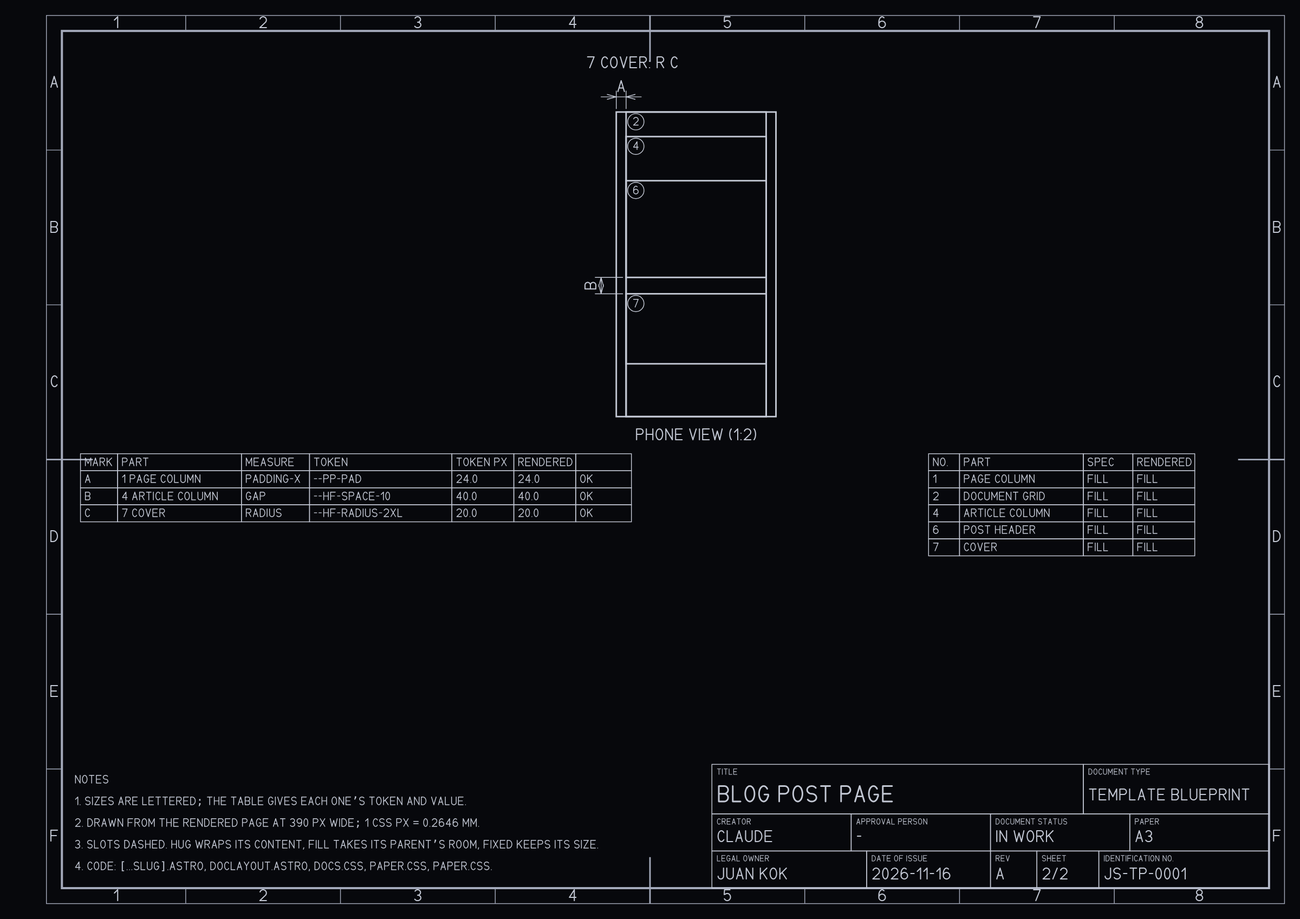
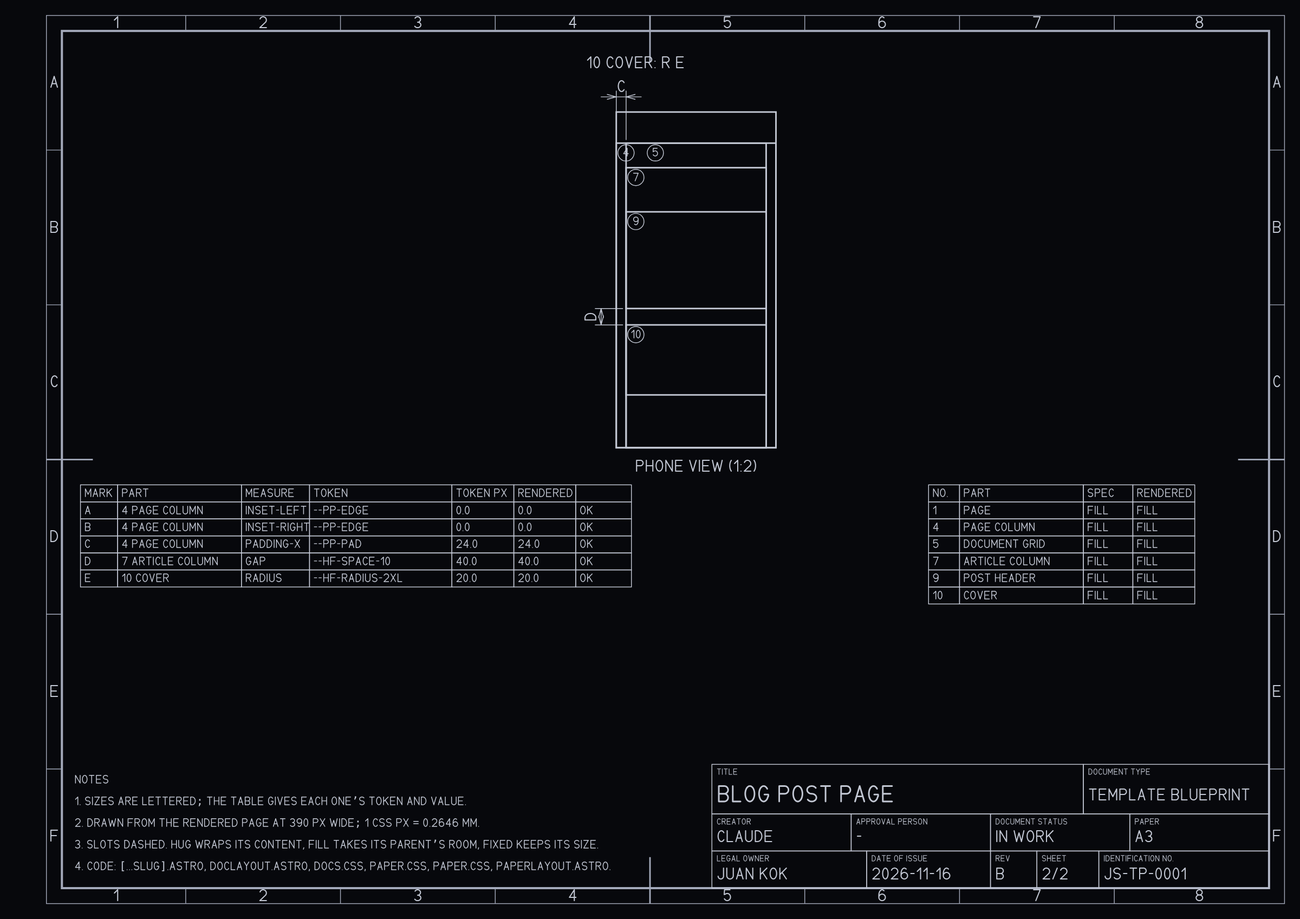
feat: page edges on the blog post and learn article blueprints
Juan asked for the dimension from the page edge to the punched strip and margin line, and from the
right edge to the contents column. Both blueprints now take the whole notepad page as their root:
the punched strip and the margin line are parts (measured as pseudo-elements, a new part field), and
two new measures, inset-left and inset-right, dimension each from the page edge. The strip's left
was a calc in its rule and is now the token --pp-strip-x. Revision B; sheets stored; the index
regenerated. The selftest fixtures point at the posts pane by its new index.

Claude-Session: https://claude.ai/code/session_01EUrBbh3nubsorYf6oJpc8D

diff --git a/astro/src/blueprints/blog-post.ts b/astro/src/blueprints/blog-post.ts
@@ -1,34 +1,42 @@
 import { onPage, type Blueprint } from './types';
 
-/** The blog post page: the paper page column holding the document grid (the pane of other posts,
- *  the article, On this page), and in the article the header, the cover and the body. Below
- *  1180 px the contents column goes; below 900 px the pane folds into a button. */
+/** The blog post page: the notepad (punched strip and margin line, then the page column clear of
+ *  them) holding the document grid (the pane of other posts, the article, On this page), and in the
+ *  article the header and the cover. Below 1180 px the contents column goes; below 900 px the pane
+ *  folds into a button and the notepad furniture is not drawn. */
 export const BLOG_POST: Blueprint = {
   id: 'blog-post',
   kind: 'template',
   title: 'Blog post page',
   summary: 'A post in the docs layout: other posts on the left, the article, its contents on the right.',
-  source: ['src/pages/blog/[...slug].astro', 'src/components/docs/DocLayout.astro', 'src/components/docs/docs.css', 'src/styles/paper.css', 'src/styles/tokens/paper.css'], // prettier-ignore
-  views: onPage('/blog/timing-closure/', 'main.post'),
+  source: ['src/pages/blog/[...slug].astro', 'src/components/docs/DocLayout.astro', 'src/components/docs/docs.css', 'src/styles/paper.css', 'src/styles/tokens/paper.css', 'src/layouts/PaperLayout.astro'], // prettier-ignore
+  views: onPage('/blog/timing-closure/', '.pp-page'),
   parts: [
-    { id: 1, name: 'Page column', selector: '', sizing: 'fill', aliases: ['page', 'main'] },
-    { id: 2, name: 'Document grid', selector: '.doc', sizing: 'fill', aliases: ['layout', 'three columns'] },
-    { id: 3, name: 'Posts pane', selector: '.doc-pane', sizing: 'fixed', views: ['desktop'], aliases: ['sidebar', 'left column', 'navigation'] }, // prettier-ignore
-    { id: 4, name: 'Article column', selector: '.doc-main', sizing: 'fill', aliases: ['article', 'middle column', 'text column'] }, // prettier-ignore
-    { id: 5, name: 'On this page', selector: '.doc-toc', sizing: 'fixed', views: ['desktop'], aliases: ['contents', 'table of contents', 'right column'] }, // prettier-ignore
-    { id: 6, name: 'Post header', selector: '.head', sizing: 'fill', aliases: ['title', 'heading'] },
-    { id: 7, name: 'Cover', selector: '.cover', sizing: 'fill', aliases: ['hero image', 'figure'] },
+    { id: 1, name: 'Page', selector: '', sizing: 'fill', aliases: ['notepad', 'sheet', 'window'] },
+    { id: 2, name: 'Margin line', selector: '', pseudo: '::before', sizing: 'fixed', views: ['desktop'], aliases: ['orange line', 'red line', 'punch hole line'] }, // prettier-ignore
+    { id: 3, name: 'Punched strip', selector: '', pseudo: '::after', sizing: 'fixed', views: ['desktop'], aliases: ['holes', 'punch holes', 'binding'] }, // prettier-ignore
+    { id: 4, name: 'Page column', selector: 'main.post', sizing: 'fill', aliases: ['page', 'main'] },
+    { id: 5, name: 'Document grid', selector: 'main.post .doc', sizing: 'fill', aliases: ['layout', 'three columns'] },
+    { id: 6, name: 'Posts pane', selector: 'main.post .doc-pane', sizing: 'fixed', views: ['desktop'], aliases: ['sidebar', 'left column', 'navigation'] }, // prettier-ignore
+    { id: 7, name: 'Article column', selector: 'main.post .doc-main', sizing: 'fill', aliases: ['article', 'middle column', 'text column'] }, // prettier-ignore
+    { id: 8, name: 'On this page', selector: 'main.post .doc-toc', sizing: 'fixed', views: ['desktop'], aliases: ['contents', 'table of contents', 'right column'] }, // prettier-ignore
+    { id: 9, name: 'Post header', selector: 'main.post .head', sizing: 'fill', aliases: ['title', 'heading'] },
+    { id: 10, name: 'Cover', selector: 'main.post .cover', sizing: 'fill', aliases: ['hero image', 'figure'] },
   ],
   sizes: [
-    { measure: 'padding-x', part: 1, token: '--pp-pad' },
-    { measure: 'width', part: 3, token: '--pp-doc-nav-w', views: ['desktop'] },
-    { measure: 'gap', part: 2, token: '--pp-doc-gap', between: [3, 4], views: ['desktop'] },
-    { measure: 'gap', part: 2, token: '--pp-doc-gap', between: [4, 5], views: ['desktop'] },
-    { measure: 'width', part: 5, token: '--pp-doc-toc-w', views: ['desktop'] },
-    { measure: 'gap', part: 4, token: '--hf-space-10', between: [6, 7] },
-    { measure: 'radius', part: 7, token: '--hf-radius-2xl' },
+    { measure: 'inset-left', part: 3, token: '--pp-strip-x', views: ['desktop'] },
+    { measure: 'inset-left', part: 2, token: '--pp-margin-x', views: ['desktop'] },
+    { measure: 'inset-left', part: 4, token: '--pp-edge' },
+    { measure: 'inset-right', part: 4, token: '--pp-edge' },
+    { measure: 'padding-x', part: 4, token: '--pp-pad' },
+    { measure: 'width', part: 6, token: '--pp-doc-nav-w', views: ['desktop'] },
+    { measure: 'gap', part: 5, token: '--pp-doc-gap', between: [6, 7], views: ['desktop'] },
+    { measure: 'gap', part: 5, token: '--pp-doc-gap', between: [7, 8], views: ['desktop'] },
+    { measure: 'width', part: 8, token: '--pp-doc-toc-w', views: ['desktop'] },
+    { measure: 'gap', part: 7, token: '--hf-space-10', between: [9, 10] },
+    { measure: 'radius', part: 10, token: '--hf-radius-2xl' },
   ],
   number: 'JS-TP-0001',
-  revision: 'A',
+  revision: 'B',
   drawn: '2026-11-16',
 };

diff --git a/astro/src/blueprints/learn-article.ts b/astro/src/blueprints/learn-article.ts
@@ -1,34 +1,46 @@
 import { onPage, type Blueprint } from './types';
 
-/** A /learn article: the blog post's docs layout, with the body on a sheet of paper and a row of
- *  next reads at the end. */
+/** A /learn article: the blog post's notepad and docs layout, with the body on a sheet of paper. */
 export const LEARN_ARTICLE: Blueprint = {
   id: 'learn-article',
   kind: 'template',
   title: 'Learn article page',
   summary: 'An explainer in the docs layout, its body on a paper sheet, next reads at the end.',
-  source: ['src/pages/learn/[...slug].astro', 'src/components/docs/DocLayout.astro', 'src/components/docs/docs.css', 'src/styles/learn-paper.css', 'src/styles/tokens/paper.css'], // prettier-ignore
-  views: onPage('/learn/how-inference-chips-are-built/', 'main.guide'),
+  source: ['src/pages/learn/[...slug].astro', 'src/components/docs/DocLayout.astro', 'src/components/docs/docs.css', 'src/styles/learn-paper.css', 'src/styles/tokens/paper.css', 'src/layouts/PaperLayout.astro'], // prettier-ignore
+  views: onPage('/learn/how-inference-chips-are-built/', '.pp-page'),
   parts: [
-    { id: 1, name: 'Page column', selector: '', sizing: 'fill', aliases: ['page', 'main'] },
-    { id: 2, name: 'Document grid', selector: '.doc', sizing: 'fill', aliases: ['layout', 'three columns'] },
-    { id: 3, name: 'Guides pane', selector: '.doc-pane', sizing: 'fixed', views: ['desktop'], aliases: ['sidebar', 'left column', 'navigation'] }, // prettier-ignore
-    { id: 4, name: 'Article column', selector: '.doc-main', sizing: 'fill', aliases: ['article', 'middle column'] },
-    { id: 5, name: 'On this page', selector: '.doc-toc', sizing: 'fixed', views: ['desktop'], aliases: ['contents', 'right column'] }, // prettier-ignore
-    { id: 6, name: 'Article header', selector: '.head', sizing: 'fill', aliases: ['title', 'heading'] },
-    { id: 7, name: 'Cover', selector: '.cover', sizing: 'fill', aliases: ['hero image', 'figure'] },
-    { id: 8, name: 'Paper sheet', selector: '.paper', sizing: 'fill', aliases: ['body', 'prose', 'text'] },
+    { id: 1, name: 'Page', selector: '', sizing: 'fill', aliases: ['notepad', 'sheet', 'window'] },
+    { id: 2, name: 'Margin line', selector: '', pseudo: '::before', sizing: 'fixed', views: ['desktop'], aliases: ['orange line', 'red line', 'punch hole line'] }, // prettier-ignore
+    { id: 3, name: 'Punched strip', selector: '', pseudo: '::after', sizing: 'fixed', views: ['desktop'], aliases: ['holes', 'punch holes', 'binding'] }, // prettier-ignore
+    { id: 4, name: 'Page column', selector: 'main.guide', sizing: 'fill', aliases: ['page', 'main'] },
+    { id: 5, name: 'Document grid', selector: 'main.guide .doc', sizing: 'fill', aliases: ['layout', 'three columns'] },
+    { id: 6, name: 'Guides pane', selector: 'main.guide .doc-pane', sizing: 'fixed', views: ['desktop'], aliases: ['sidebar', 'left column', 'navigation'] }, // prettier-ignore
+    {
+      id: 7,
+      name: 'Article column',
+      selector: 'main.guide .doc-main',
+      sizing: 'fill',
+      aliases: ['article', 'middle column'],
+    },
+    { id: 8, name: 'On this page', selector: 'main.guide .doc-toc', sizing: 'fixed', views: ['desktop'], aliases: ['contents', 'right column'] }, // prettier-ignore
+    { id: 9, name: 'Article header', selector: 'main.guide .head', sizing: 'fill', aliases: ['title', 'heading'] },
+    { id: 10, name: 'Cover', selector: 'main.guide .cover', sizing: 'fill', aliases: ['hero image', 'figure'] },
+    { id: 11, name: 'Paper sheet', selector: 'main.guide .paper', sizing: 'fill', aliases: ['body', 'prose', 'text'] },
   ],
   sizes: [
-    { measure: 'padding-x', part: 1, token: '--pp-pad' },
-    { measure: 'width', part: 3, token: '--pp-doc-nav-w', views: ['desktop'] },
-    { measure: 'gap', part: 2, token: '--pp-doc-gap', between: [3, 4], views: ['desktop'] },
-    { measure: 'gap', part: 2, token: '--pp-doc-gap', between: [4, 5], views: ['desktop'] },
-    { measure: 'width', part: 5, token: '--pp-doc-toc-w', views: ['desktop'] },
-    { measure: 'gap', part: 4, token: '--hf-space-10', between: [6, 7] },
-    { measure: 'radius', part: 7, token: '--hf-radius-2xl' },
+    { measure: 'inset-left', part: 3, token: '--pp-strip-x', views: ['desktop'] },
+    { measure: 'inset-left', part: 2, token: '--pp-margin-x', views: ['desktop'] },
+    { measure: 'inset-left', part: 4, token: '--pp-edge' },
+    { measure: 'inset-right', part: 4, token: '--pp-edge' },
+    { measure: 'padding-x', part: 4, token: '--pp-pad' },
+    { measure: 'width', part: 6, token: '--pp-doc-nav-w', views: ['desktop'] },
+    { measure: 'gap', part: 5, token: '--pp-doc-gap', between: [6, 7], views: ['desktop'] },
+    { measure: 'gap', part: 5, token: '--pp-doc-gap', between: [7, 8], views: ['desktop'] },
+    { measure: 'width', part: 8, token: '--pp-doc-toc-w', views: ['desktop'] },
+    { measure: 'gap', part: 7, token: '--hf-space-10', between: [9, 10] },
+    { measure: 'radius', part: 10, token: '--hf-radius-2xl' },
   ],
   number: 'JS-TP-0003',
-  revision: 'A',
+  revision: 'B',
   drawn: '2026-11-16',
 };

diff --git a/astro/src/blueprints/measure.ts b/astro/src/blueprints/measure.ts
@@ -1,4 +1,4 @@
-import { find, isEl, px, rel, style, tokenPx, zoomOf, type Box } from './dom';
+import { find, isEl, px, rel, relPseudo, style, tokenPx, zoomOf, type Box } from './dom';
 import { sizingOf, templateSizing } from './sizing';
 import { shownIn, type Blueprint, type Measure, type Sizing, type View } from './types';
 
@@ -12,7 +12,7 @@ export { widths } from './sizing';
 
 export type P = [number, number];
 
-const LENGTHS: Measure[] = ['width', 'max-width', 'height', 'min-height', 'padding-x', 'padding-y', 'gap'];
+const LENGTHS: Measure[] = ['width', 'max-width', 'height', 'min-height', 'inset-left', 'inset-right', 'padding-x', 'padding-y', 'gap']; // prettier-ignore
 const NUDGE = 8;
 
 export interface SizeResult {
@@ -58,14 +58,20 @@ function read(
   el: HTMLElement,
   root: Element,
   ends: [HTMLElement | null, HTMLElement | null] | null,
+  pseudo?: string,
 ): { v: number; a: P; b: P | null } {
-  const cs = style(el);
-  const B = rel(el, root);
+  const cs = style(el, pseudo);
+  const B = pseudo ? relPseudo(el, pseudo, root) : rel(el, root);
+  const W = root.getBoundingClientRect().width / zoomOf(root);
   const [bl, bt] = [px(cs.borderLeftWidth), px(cs.borderTopWidth)];
   const right: P = [B.x + B.w, B.y];
   switch (m) {
     case 'width':
       return { v: B.w, a: [B.x, B.y], b: right };
+    case 'inset-left':
+      return { v: B.x, a: [0, B.y], b: [B.x, B.y] };
+    case 'inset-right':
+      return { v: W - B.x - B.w, a: [B.x + B.w, B.y], b: [W, B.y] };
     case 'max-width':
       return { v: px(cs.maxWidth), a: [B.x, B.y], b: right };
     case 'height':
@@ -106,6 +112,7 @@ function drives(
   ends: [HTMLElement | null, HTMLElement | null] | null,
   before: number,
   expected: number,
+  pseudo?: string,
 ): boolean {
   if (!LENGTHS.includes(s.measure) && s.measure !== 'radius' && s.measure !== 'border' && s.measure !== 'font-size')
     return true; // the printed edge is a shadow offset pair, checked by value
@@ -113,7 +120,7 @@ function drives(
   for (let e: HTMLElement | null = el; e; e = e.parentElement) chain.push(e);
   const prior = chain.map((e) => e.style.getPropertyValue(s.token));
   chain.forEach((e) => e.style.setProperty(s.token, `${expected + NUDGE}px`));
-  const after = read(s.measure, el, root, ends).v;
+  const after = read(s.measure, el, root, ends, pseudo).v;
   chain.forEach((e, i) => (prior[i] ? e.style.setProperty(s.token, prior[i] ?? '') : e.style.removeProperty(s.token)));
   return Math.abs(after - before) >= NUDGE / 2;
 }
@@ -146,21 +153,23 @@ function measureRoot(root: HTMLElement | null, spec: Blueprint, view: View, size
   const boxes: Record<number, Box> = {};
   for (const p of shown) {
     const el = find(root, p.selector);
-    if (!el || el.getBoundingClientRect().width === 0) {
+    const box = el && (p.pseudo ? relPseudo(el, p.pseudo, root) : rel(el, root));
+    if (!el || !box || box.w === 0) {
       problems.push(`${p.name} (${p.id}) is not on the page at ${view.name}`);
       continue;
     }
     els.set(p.id, el);
-    boxes[p.id] = rel(el, root);
+    boxes[p.id] = box;
   }
   const sizes: SizeResult[] = [];
   for (const s of spec.sizes.filter((x) => shownIn(x, view.name))) {
     const el = els.get(s.part);
     if (!el) continue;
     const ends: [HTMLElement | null, HTMLElement | null] | null = s.between ? [els.get(s.between[0]) ?? null, els.get(s.between[1]) ?? null] : null; // prettier-ignore
-    const r = read(s.measure, el, root, ends);
+    const pseudo = spec.parts.find((p) => p.id === s.part)?.pseudo;
+    const r = read(s.measure, el, root, ends, pseudo);
     const expected = tokenPx(el, s.token);
-    const driven = drives(s, el, root, ends, r.v, expected);
+    const driven = drives(s, el, root, ends, r.v, expected, pseudo);
     sizes.push({ ...s, actual: r.v, expected, driven, a: r.a, b: r.b });
     const where = `${s.measure} of ${spec.parts.find((p) => p.id === s.part)?.name ?? s.part}`;
     if (!(Math.abs(r.v - expected) <= 0.5))
@@ -171,7 +180,8 @@ function measureRoot(root: HTMLElement | null, spec: Blueprint, view: View, size
     const want: Sizing = view.name === 'phone' && p.phone ? p.phone : p.sizing;
     let got: Sizing = want;
     if (sizer === 'clone') got = sizingOf(root, p.selector, p.slot === true);
-    else if (sizer) got = templateSizing(els.get(p.id), root, sizer[p.id] ?? 0, boxes[p.id]?.w ?? 0, want);
+    else if (sizer)
+      got = templateSizing(p.pseudo ? undefined : els.get(p.id), root, sizer[p.id] ?? 0, boxes[p.id]?.w ?? 0, want);
     return { id: p.id, name: p.name, want, got };
   });
   for (const z of sizing) if (z.want !== z.got) problems.push(`${z.name} (${z.id}) should ${z.want} but ${z.got}s`);

diff --git a/astro/src/blueprints/dom.ts b/astro/src/blueprints/dom.ts
@@ -23,8 +23,8 @@ export function find(root: Element, selector: string): HTMLElement | null {
   return isEl(el) ? el : null;
 }
 
-export const style = (el: HTMLElement): CSSStyleDeclaration =>
-  (el.ownerDocument.defaultView ?? window).getComputedStyle(el);
+export const style = (el: HTMLElement, pseudo?: string): CSSStyleDeclaration =>
+  (el.ownerDocument.defaultView ?? window).getComputedStyle(el, pseudo);
 
 /** A token's value in CSS px, read where the part can see it. */
 export function tokenPx(el: HTMLElement, token: string): number {
@@ -42,4 +42,14 @@ export function tokenPx(el: HTMLElement, token: string): number {
 export function rel(el: Element, root: Element): Box {
   const [b, r, z] = [el.getBoundingClientRect(), root.getBoundingClientRect(), zoomOf(root)];
   return { x: (b.left - r.left) / z, y: (b.top - r.top) / z, w: b.width / z, h: b.height / z };
+}
+
+/** A pseudo-element's box (a page's margin line drawn as ::before), from its computed position in
+ *  its host: it has no box of its own to ask. Zero wide when it is not drawn. */
+export function relPseudo(el: HTMLElement, pseudo: string, root: Element): Box {
+  const host = rel(el, root);
+  const cs = style(el, pseudo);
+  if (cs.content === 'none' || cs.display === 'none') return { ...host, w: 0 };
+  const h = px(cs.height) || host.h - px(cs.top) - px(cs.bottom);
+  return { x: host.x + px(cs.left), y: host.y + px(cs.top), w: px(cs.width), h };
 }

diff --git a/astro/src/blueprints/harness.ts b/astro/src/blueprints/harness.ts
@@ -53,8 +53,8 @@ export const FIXTURES: Record<string, { spec?: (b: Record<string, Blueprint>) =>
   'a part that fills marked hug': { spec: (b) => void (b['paper-action']?.parts[1] && (b['paper-action'].parts[1].sizing = 'hug')) }, // prettier-ignore
   'a slot that hugs marked fill': { spec: (b) => void (b['paper-action']?.parts[2] && (b['paper-action'].parts[2].sizing = 'fill')) }, // prettier-ignore
   'a literal that equals the token': { css: '.paper-action .pa-face { padding-left: 20px !important }' },
-  'a template part that is not there': { spec: (b) => void (b['blog-post']?.parts[1] && (b['blog-post'].parts[1].selector = '.no-such-pane')) }, // prettier-ignore
-  'a fixed column marked fill': { spec: (b) => void (b['blog-post']?.parts[2] && (b['blog-post'].parts[2].sizing = 'fill')) }, // prettier-ignore
+  'a template part that is not there': { spec: (b) => void (b['blog-post']?.parts[5] && (b['blog-post'].parts[5].selector = '.no-such-pane')) }, // prettier-ignore
+  'a fixed column marked fill': { spec: (b) => void (b['blog-post']?.parts[5] && (b['blog-post'].parts[5].sizing = 'fill')) }, // prettier-ignore
 };
 
 export interface Result {

diff --git a/astro/src/blueprints/types.ts b/astro/src/blueprints/types.ts
@@ -31,6 +31,8 @@ export interface Part {
   name: string;
   /** CSS selector inside the root; '' is the root itself. */
   selector: string;
+  /** A part drawn by CSS as a pseudo-element of the selected element (a margin line). */
+  pseudo?: '::before' | '::after';
   sizing: Sizing;
   /** How it sizes on a phone, where that differs (a row of buttons that wraps to the width). */
   phone?: Sizing;
@@ -43,12 +45,15 @@ export interface Part {
 }
 
 /** What a size measures on its part. Lengths are dimensioned on the drawing; border, radius, the
- *  printed edge and font size are leader notes. */
+ *  printed edge and font size are leader notes. An inset is the distance from the root's left or
+ *  right edge to the part's. */
 export type Measure =
   | 'width'
   | 'max-width'
   | 'height'
   | 'min-height'
+  | 'inset-left'
+  | 'inset-right'
   | 'padding-x'
   | 'padding-y'
   | 'gap'

diff --git a/astro/src/blueprints/sizing.ts b/astro/src/blueprints/sizing.ts
@@ -1,4 +1,4 @@
-import { find, isEl, px, style, zoomOf } from './dom';
+import { find, isEl, px, rel, relPseudo, style, zoomOf } from './dom';
 import type { Blueprint, Sizing, View } from './types';
 
 /** How a component's part sizes: copy the component into a host off screen, give the part's
@@ -61,5 +61,10 @@ export function templateSizing(
 export function widths(doc: Document, spec: Blueprint, view: View): Record<number, number> {
   const root = doc.querySelector(view.root);
   if (!root) return {};
-  return Object.fromEntries(spec.parts.map((p) => [p.id, (find(root, p.selector)?.getBoundingClientRect().width ?? 0) / zoomOf(root)])); // prettier-ignore
+  return Object.fromEntries(
+    spec.parts.map((p) => {
+      const el = find(root, p.selector);
+      return [p.id, el ? (p.pseudo ? relPseudo(el, p.pseudo, root) : rel(el, root)).w : 0];
+    }),
+  );
 }

diff --git a/astro/src/styles/paper.css b/astro/src/styles/paper.css
@@ -138,6 +138,7 @@ body.paper {
   --pp-gutter: clamp(0px, calc((100cqw - var(--pp-measure-min)) / 2), var(--pp-gutter-max));
   --pp-edge: max(var(--pp-gutter), calc((100cqw - var(--pp-measure)) / 2));
   --pp-margin-x: max(var(--pp-margin-min), calc(var(--pp-edge) - var(--pp-margin-inset)));
+  --pp-strip-x: calc(var(--pp-edge) - var(--pp-strip-inset));
 }
 
 .pp-wrap {
@@ -168,7 +169,7 @@ body.paper {
 }
 
 .pp-page::after {
-  left: calc(var(--pp-edge) - var(--pp-strip-inset));
+  left: var(--pp-strip-x);
   width: var(--pp-strip-w);
   background:
     var(--pp-holes) 0 0 / var(--pp-strip-w) var(--pp-hole-pitch) repeat-y,

diff --git a/astro/src/blueprints/catalogue.ts b/astro/src/blueprints/catalogue.ts
@@ -29,6 +29,8 @@ export const MEASURE_WORDS: Record<Measure, string> = {
   'max-width': 'widest width',
   height: 'height',
   'min-height': 'least height',
+  'inset-left': 'distance from the left edge',
+  'inset-right': 'distance from the right edge',
   'padding-x': 'padding across',
   'padding-y': 'padding down',
   gap: 'gap',

diff --git a/astro/src/blueprints/INDEX.md b/astro/src/blueprints/INDEX.md
@@ -87,33 +87,41 @@ The landing page: a hero of copy and a drawing side by side, then the notepad se
 | 6 Lead | intro, paragraph | widest width | `--pp-lead-w` | src/styles/tokens/paper.css:137 | 600px | - |
 | 7 Actions | buttons | gap | `--hf-space-3` | src/styles/tokens/spacing.css:10 | 12px | lab, read in 43 files |
 
-## Blog post page (`blog-post`, JS-TP-0001 rev A)
+## Blog post page (`blog-post`, JS-TP-0001 rev B)
 
 A post in the docs layout: other posts on the left, the article, its contents on the right.
 
 | Part | Also called | Size | Token | Defined at | Resolves to | Also changes |
 |---|---|---|---|---|---|---|
-| 1 Page column | page, main | padding across | `--pp-pad` | src/styles/tokens/paper.css:96 | var(--hf-space-6) → 24px | paper-nav, paper-footer, learn-article, writing-index, learn-index, lab, read in 4 files |
-| 3 Posts pane | sidebar, left column, navigation | width | `--pp-doc-nav-w` | src/styles/tokens/paper.css:132 | 220px | learn-article |
-| 2 Document grid | layout, three columns | gap | `--pp-doc-gap` | src/styles/tokens/paper.css:134 | 40px | learn-article |
-| 2 Document grid | layout, three columns | gap | `--pp-doc-gap` | src/styles/tokens/paper.css:134 | 40px | learn-article |
-| 5 On this page | contents, table of contents, right column | width | `--pp-doc-toc-w` | src/styles/tokens/paper.css:133 | 180px | learn-article |
-| 4 Article column | article, middle column, text column | gap | `--hf-space-10` | src/styles/tokens/spacing.css:15 | 40px | learn-article, read in 16 files |
-| 7 Cover | hero image, figure | corner radius | `--hf-radius-2xl` | src/styles/tokens/spacing.css:46 | 20px | learn-article, read in 7 files |
+| 3 Punched strip | holes, punch holes, binding | distance from the left edge | `--pp-strip-x` | not defined in the token files |  | learn-article |
+| 2 Margin line | orange line, red line, punch hole line | distance from the left edge | `--pp-margin-x` | not defined in the token files |  | learn-article, read in 3 files |
+| 4 Page column | page, main | distance from the left edge | `--pp-edge` | not defined in the token files |  | learn-article, read in 3 files |
+| 4 Page column | page, main | distance from the right edge | `--pp-edge` | not defined in the token files |  | learn-article, read in 3 files |
+| 4 Page column | page, main | padding across | `--pp-pad` | src/styles/tokens/paper.css:96 | var(--hf-space-6) → 24px | paper-nav, paper-footer, learn-article, writing-index, learn-index, lab, read in 4 files |
+| 6 Posts pane | sidebar, left column, navigation | width | `--pp-doc-nav-w` | src/styles/tokens/paper.css:132 | 220px | learn-article |
+| 5 Document grid | layout, three columns | gap | `--pp-doc-gap` | src/styles/tokens/paper.css:134 | 40px | learn-article |
+| 5 Document grid | layout, three columns | gap | `--pp-doc-gap` | src/styles/tokens/paper.css:134 | 40px | learn-article |
+| 8 On this page | contents, table of contents, right column | width | `--pp-doc-toc-w` | src/styles/tokens/paper.css:133 | 180px | learn-article |
+| 7 Article column | article, middle column, text column | gap | `--hf-space-10` | src/styles/tokens/spacing.css:15 | 40px | learn-article, read in 16 files |
+| 10 Cover | hero image, figure | corner radius | `--hf-radius-2xl` | src/styles/tokens/spacing.css:46 | 20px | learn-article, read in 7 files |
 
-## Learn article page (`learn-article`, JS-TP-0003 rev A)
+## Learn article page (`learn-article`, JS-TP-0003 rev B)
 
 An explainer in the docs layout, its body on a paper sheet, next reads at the end.
 
 | Part | Also called | Size | Token | Defined at | Resolves to | Also changes |
 |---|---|---|---|---|---|---|
-| 1 Page column | page, main | padding across | `--pp-pad` | src/styles/tokens/paper.css:96 | var(--hf-space-6) → 24px | paper-nav, paper-footer, blog-post, writing-index, learn-index, lab, read in 4 files |
-| 3 Guides pane | sidebar, left column, navigation | width | `--pp-doc-nav-w` | src/styles/tokens/paper.css:132 | 220px | blog-post |
-| 2 Document grid | layout, three columns | gap | `--pp-doc-gap` | src/styles/tokens/paper.css:134 | 40px | blog-post |
-| 2 Document grid | layout, three columns | gap | `--pp-doc-gap` | src/styles/tokens/paper.css:134 | 40px | blog-post |
-| 5 On this page | contents, right column | width | `--pp-doc-toc-w` | src/styles/tokens/paper.css:133 | 180px | blog-post |
-| 4 Article column | article, middle column | gap | `--hf-space-10` | src/styles/tokens/spacing.css:15 | 40px | blog-post, read in 16 files |
-| 7 Cover | hero image, figure | corner radius | `--hf-radius-2xl` | src/styles/tokens/spacing.css:46 | 20px | blog-post, read in 7 files |
+| 3 Punched strip | holes, punch holes, binding | distance from the left edge | `--pp-strip-x` | not defined in the token files |  | blog-post |
+| 2 Margin line | orange line, red line, punch hole line | distance from the left edge | `--pp-margin-x` | not defined in the token files |  | blog-post, read in 3 files |
+| 4 Page column | page, main | distance from the left edge | `--pp-edge` | not defined in the token files |  | blog-post, read in 3 files |
+| 4 Page column | page, main | distance from the right edge | `--pp-edge` | not defined in the token files |  | blog-post, read in 3 files |
+| 4 Page column | page, main | padding across | `--pp-pad` | src/styles/tokens/paper.css:96 | var(--hf-space-6) → 24px | paper-nav, paper-footer, blog-post, writing-index, learn-index, lab, read in 4 files |
+| 6 Guides pane | sidebar, left column, navigation | width | `--pp-doc-nav-w` | src/styles/tokens/paper.css:132 | 220px | blog-post |
+| 5 Document grid | layout, three columns | gap | `--pp-doc-gap` | src/styles/tokens/paper.css:134 | 40px | blog-post |
+| 5 Document grid | layout, three columns | gap | `--pp-doc-gap` | src/styles/tokens/paper.css:134 | 40px | blog-post |
+| 8 On this page | contents, right column | width | `--pp-doc-toc-w` | src/styles/tokens/paper.css:133 | 180px | blog-post |
+| 7 Article column | article, middle column | gap | `--hf-space-10` | src/styles/tokens/spacing.css:15 | 40px | blog-post, read in 16 files |
+| 10 Cover | hero image, figure | corner radius | `--hf-radius-2xl` | src/styles/tokens/spacing.css:46 | 20px | blog-post, read in 7 files |
 
 ## Writing index page (`writing-index`, JS-TP-0004 rev A)
 
